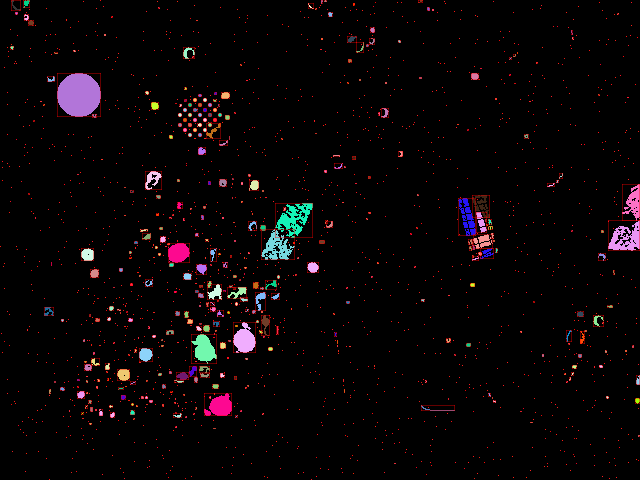
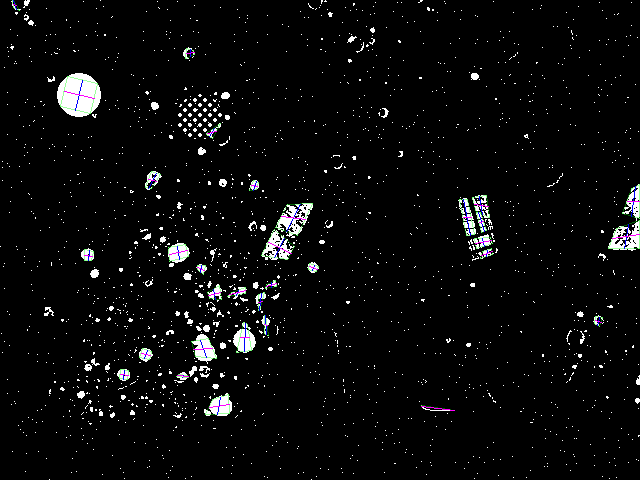
Working on "Area Expansion" method

diff --git a/Scripting/BlobUtil.ts b/Scripting/BlobUtil.ts
@@ -1,14 +1,20 @@
 import { virtexConfig } from "./Config";
-import { inRangeInclusive, max, min, Vector } from "./util/Math";
+import { calcPolygonArea, inRangeInclusive, max, min, Vector } from "./util/Math";
+import { drawPixel } from "./util/OtherUtil";
 
 //Types
 export interface BlobData {
+    /*Note: relative side of pixel
+    ex) top left (0, 0) means pixel #(0, 0) whereas
+        top right (1, 1) means pixel #(1, 0)
+        bottom right (2, 2) means pixel #(1, 1)
+    this makes area calculations easier*/
     boundTopLeft: Vector,
     boundBottomRight: Vector,
-    extremeTopLeft: Vector,
-    extremeTopRight: Vector,
-    extremeBottomLeft: Vector,
-    extremeBottomRight: Vector,
+    quadTopLeft: Vector,
+    quadTopRight: Vector,
+    quadBottomRight: Vector,
+    quadBottomLeft: Vector,
     area: number
 }
 export enum BlobStatus { UNSCANED, VALID, POINTER, GARBAGE };
@@ -32,30 +38,31 @@ export function doesBlobMatchCriteria(blob: BlobData): boolean {
     const boundHeight = blob.boundBottomRight.y - blob.boundTopLeft.y;
 
     //boundWidth / boundHeight = (1/640) to 640
-    //10.6
+    //10.6?
     const aspectRatio = boundWidth / boundHeight;
     const size = boundWidth * boundHeight;
     const fullness = blob.area / size;
-    const slope = 100;//(slopeLeft + slopeRight) / 2.0;
 
-    if (inRangeInclusive(aspectRatio, virtexConfig.blobAspectRatioMin, virtexConfig.blobAspectRatioMax) &&
-    inRangeInclusive(size       , virtexConfig.blobSizeMin       , virtexConfig.blobSizeMax       ) &&
-    inRangeInclusive(fullness   , virtexConfig.blobFullnessMin   , virtexConfig.blobFullnessMax   )) {
-        const slopeRight = (blob.extremeBottomRight.y - blob.extremeTopRight.y) / (blob.extremeBottomRight.x - blob.extremeTopRight.x);
-        const test = Math.atan2(
-            blob.extremeBottomLeft.y - blob.extremeTopLeft.y, 
-            blob.extremeBottomLeft.x - blob.extremeTopLeft.x) * 180 / Math.PI;
-        console.log(test);
-    }
+    const avgDy = ((blob.quadBottomLeft.y + blob.quadBottomRight.y) / 2.0) - ((blob.quadTopLeft.y + blob.quadTopRight.y) / 2.0);
+    const avgDx = ((blob.quadTopLeft.x + blob.quadTopRight.x) / 2.0) - ((blob.quadBottomLeft.x + blob.quadBottomRight.x) / 2.0);
+    const angleRads = Math.atan2(avgDy, avgDx);
+
+    // if (inRangeInclusive(aspectRatio, virtexConfig.blobAspectRatioMin, virtexConfig.blobAspectRatioMax) &&
+    //     inRangeInclusive(size       , virtexConfig.blobSizeMin       , virtexConfig.blobSizeMax       ) &&
+    //     inRangeInclusive(fullness   , virtexConfig.blobFullnessMin   , virtexConfig.blobFullnessMax   ) &&
+    //     inRangeInclusive(angleRads  , virtexConfig.blobAngleRadsMin  , virtexConfig.blobAngleRadsMax  )) {
+    //     console.log({ avgDy, avgDx, angleRads });
+    // }
 
     return inRangeInclusive(aspectRatio, virtexConfig.blobAspectRatioMin, virtexConfig.blobAspectRatioMax) &&
            inRangeInclusive(size       , virtexConfig.blobSizeMin       , virtexConfig.blobSizeMax       ) &&
            inRangeInclusive(fullness   , virtexConfig.blobFullnessMin   , virtexConfig.blobFullnessMax   ) &&
-           inRangeInclusive(slope      , virtexConfig.blobSlopeMin      , virtexConfig.blobSlopeMax      );
+           inRangeInclusive(angleRads  , virtexConfig.blobAngleRadsMin  , virtexConfig.blobAngleRadsMax  );
 }
 
 //Merging Blobs
 export function mergeBlobs(blob1: BlobData, blob2: BlobData): BlobData {
+    const quad = makeBiggestQuad(blob1, blob2);
     return {
         boundTopLeft: {
             x: min(blob1.boundTopLeft.x, blob2.boundTopLeft.x),
@@ -65,15 +72,49 @@ export function mergeBlobs(blob1: BlobData, blob2: BlobData): BlobData {
             x: max(blob1.boundBottomRight.x, blob2.boundBottomRight.x),
             y: max(blob1.boundBottomRight.y, blob2.boundBottomRight.y)
         },
-        extremeTopLeft: mergeExtremeTopLeft(blob1.extremeTopLeft, blob2.extremeTopLeft),
-        extremeTopRight: mergeExtremeTopRight(blob1.extremeTopRight, blob2.extremeTopRight),
-        extremeBottomLeft: mergeExtremeBottomLeft(blob1.extremeBottomLeft, blob2.extremeBottomLeft),
-        extremeBottomRight: mergeExtremeBottomRight(blob1.extremeBottomRight, blob2.extremeBottomRight),
+        // quadTopLeft: quad[0],
+        // quadTopRight: quad[1],
+        // quadBottomRight: quad[2],
+        // quadBottomLeft: quad[3],
+        quadTopLeft: mergeExtremeTopLeft(blob1.quadTopLeft, blob2.quadTopLeft),
+        quadTopRight: mergeExtremeTopRight(blob1.quadTopRight, blob2.quadTopRight),
+        quadBottomRight: mergeExtremeBottomRight(blob1.quadBottomRight, blob2.quadBottomRight),
+        quadBottomLeft: mergeExtremeBottomLeft(blob1.quadBottomLeft, blob2.quadBottomLeft),
         area: blob1.area + blob2.area
     };
 }
+function makeBiggestQuad(blob1: BlobData, blob2: BlobData): Vector[] {
+    const quads: Vector[][] = [
+        [ blob1.quadTopLeft, blob1.quadTopRight, blob1.quadBottomRight, blob1.quadBottomLeft ],
+        [ blob1.quadTopLeft, blob1.quadTopRight, blob1.quadBottomRight, blob2.quadBottomLeft ],
+        [ blob1.quadTopLeft, blob1.quadTopRight, blob2.quadBottomRight, blob1.quadBottomLeft ],
+        [ blob1.quadTopLeft, blob1.quadTopRight, blob2.quadBottomRight, blob2.quadBottomLeft ],
+        [ blob1.quadTopLeft, blob2.quadTopRight, blob1.quadBottomRight, blob1.quadBottomLeft ],
+        [ blob1.quadTopLeft, blob2.quadTopRight, blob1.quadBottomRight, blob2.quadBottomLeft ],
+        [ blob1.quadTopLeft, blob2.quadTopRight, blob2.quadBottomRight, blob1.quadBottomLeft ],
+        [ blob1.quadTopLeft, blob2.quadTopRight, blob2.quadBottomRight, blob2.quadBottomLeft ],
+        [ blob2.quadTopLeft, blob1.quadTopRight, blob1.quadBottomRight, blob1.quadBottomLeft ],
+        [ blob2.quadTopLeft, blob1.quadTopRight, blob1.quadBottomRight, blob2.quadBottomLeft ],
+        [ blob2.quadTopLeft, blob1.quadTopRight, blob2.quadBottomRight, blob1.quadBottomLeft ],
+        [ blob2.quadTopLeft, blob1.quadTopRight, blob2.quadBottomRight, blob2.quadBottomLeft ],
+        [ blob2.quadTopLeft, blob2.quadTopRight, blob1.quadBottomRight, blob1.quadBottomLeft ],
+        [ blob2.quadTopLeft, blob2.quadTopRight, blob1.quadBottomRight, blob2.quadBottomLeft ],
+        [ blob2.quadTopLeft, blob2.quadTopRight, blob2.quadBottomRight, blob1.quadBottomLeft ],
+        [ blob2.quadTopLeft, blob2.quadTopRight, blob2.quadBottomRight, blob2.quadBottomLeft ],
+    ];
+
+    let biggestQuadIndex = 0;
+    for (let i = 1; i < quads.length; i++) {
+        if (calcPolygonArea(quads[i]) > calcPolygonArea(quads[biggestQuadIndex])) {
+            biggestQuadIndex = i;
+        }
+    }
+
+    return quads[biggestQuadIndex];
+}
 //FIXME FIXME FIXME
 export function mergeExtremeTopLeft(a: Vector, b: Vector): Vector {
+    //note: these need to be signed
     return isVectorSmaller({x: a.x, y: a.y}, {x: b.x, y: b.y}) ? a : b;
 }
 export function mergeExtremeTopRight(a: Vector, b: Vector): Vector {
@@ -106,10 +147,10 @@ export function runToBlob(run: Run, start: number, line: number): BlobData {
     return {
         boundTopLeft:     {x:start , y:line  },
         boundBottomRight: {x:stop+1, y:line+1},
-        extremeTopLeft:      {x:start , y:line  },
-        extremeTopRight:     {x:stop  , y:line  },
-        extremeBottomLeft:   {x:start , y:line  },
-        extremeBottomRight:  {x:stop  , y:line  },
+        quadTopLeft:      {x:start , y:line  },
+        quadTopRight:     {x:stop+1, y:line  },
+        quadBottomRight:  {x:stop+1, y:line+1},
+        quadBottomLeft:   {x:start , y:line+1},
         area: run.length
     };
 }

diff --git a/Scripting/BlobProcessor.ts b/Scripting/BlobProcessor.ts
@@ -1,13 +1,13 @@
 //BlobProcessor.ts
 import { IMAGE_WIDTH, IMAGE_HEIGHT } from "./util/Constants";
 import { Fault } from "./util/Fault";
-import { BlobBRAMPort, BLOB_BRAM_PORT_DEFAULT, Kernel, EMPTY_BLOB, KERNEL_MAX_X, drawEllipse, calculateIDX, drawLine } from "./util/OtherUtil";
+import { BlobBRAMPort, BLOB_BRAM_PORT_DEFAULT, Kernel, EMPTY_BLOB, KERNEL_MAX_X, drawEllipse, calculateIDX, drawLine, drawPixel } from "./util/OtherUtil";
 import { MAX_BLOBS, MAX_BLOB_POINTER_DEPTH, MAX_RUNS_PER_LINE, NULL_LINE_NUMBER, NULL_BLOB_ID, NULL_RUN_BUFFER_PARTION, NULL_BLACK_RUN_BLOB_ID } from "./BlobConstants";
 import { BlobData, BlobMetadata, BlobStatus, mergeBlobs, Run, RunBuffer, runsOverlap, runToBlob, doesBlobMatchCriteria } from "./BlobUtil";
-import { IMAGE_INPUT_PATH, DRAW_BLOB_COLOR, DRAW_BOUND, DRAW_POLYGON, IMAGE_OUTPUT_PATH, IMAGES_INPUT_PATH, IMAGES_OUTPUT_PATH, DRAW_ELLIPSE, virtexConfig } from "./Config";
+import { IMAGE_INPUT_PATH, DRAW_BLOB_COLOR, DRAW_BOUND, DRAW_QUAD, IMAGE_OUTPUT_PATH, IMAGES_INPUT_PATH, IMAGES_OUTPUT_PATH, DRAW_ELLIPSE, virtexConfig, DRAW_QUAD_CENTER_LINES, DRAW_QUAD_CORNERS } from "./Config";
 import * as fs from "fs";
 import * as path from "path";
-import { overflow } from "./util/Math";
+import { overflow, Vector } from "./util/Math";
 const drawing = require('pngjs-draw');
 const png = drawing(require('pngjs').PNG);
 
@@ -664,49 +664,78 @@ function runImage(imageInputPath: string, imageOutputPath: string): Promise<void
                         );
                     }
 
-                    if (DRAW_POLYGON) {
+                    if (DRAW_ELLIPSE) {
+                        drawEllipse(
+                            data,
+                            blob.quadTopLeft,
+                            blob.quadTopRight,
+                            blob.quadBottomRight,
+                            blob.quadBottomLeft,
+                            [0, 0, 255, 100]
+                        );
+                    }
+
+                    if (DRAW_QUAD) {
                         // @ts-ignore
                         drawLine(
                             data,
-                            blob.extremeTopLeft,
-                            blob.extremeTopRight,
+                            { x: blob.quadTopLeft.x   , y: blob.quadTopLeft.y },
+                            { x: blob.quadTopRight.x-1, y: blob.quadTopRight.y },
                             [0, 255, 0, 100]
                         );
 
                         //@ts-ignore
                         drawLine(
                             data,
-                            blob.extremeTopRight,
-                            blob.extremeBottomRight,
+                            { x: blob.quadTopRight.x-1   , y: blob.quadTopRight.y     },
+                            { x: blob.quadBottomRight.x-1, y: blob.quadBottomRight.y-1},
                             [0, 255, 0, 100]
                         );
 
                         //@ts-ignore
                         drawLine(
                             data,
-                            blob.extremeBottomRight,
-                            blob.extremeBottomLeft,
+                            { x: blob.quadBottomRight.x-1, y: blob.quadBottomRight.y-1},
+                            { x: blob.quadBottomLeft.x   , y: blob.quadBottomLeft.y-1 },
                             [0, 255, 0, 100]
                         );
 
                         //@ts-ignore
                         drawLine(
                             data,
-                            blob.extremeBottomLeft,
-                            blob.extremeTopLeft,
+                            { x: blob.quadBottomLeft.x, y: blob.quadBottomLeft.y-1},
+                            { x: blob.quadTopLeft.x   , y: blob.quadTopLeft.y   },
                             [0, 255, 0, 100]
                         );
                     }
 
-                    if (DRAW_ELLIPSE) {
-                        drawEllipse(
-                            data,
-                            blob.extremeTopRight,
-                            blob.extremeTopLeft,
-                            blob.extremeBottomRight,
-                            blob.extremeBottomLeft,
-                            [0, 0, 255, 100]
-                        );
+                    if (DRAW_QUAD_CENTER_LINES) {
+                        const midTop: Vector = {
+                            x: ((blob.quadTopLeft.x + blob.quadTopRight.x-1) / 2.0),
+                            y: ((blob.quadTopLeft.y + blob.quadTopRight.y) / 2.0)
+                        };
+                        const midBottom: Vector = {
+                            x: ((blob.quadBottomLeft.x + blob.quadBottomRight.x-1) / 2.0),
+                            y: ((blob.quadBottomLeft.y-1 + blob.quadBottomRight.y-1) / 2.0)
+                        };
+                        const midLeft: Vector = {
+                            x: ((blob.quadTopLeft.x + blob.quadBottomLeft.x) / 2.0),
+                            y: ((blob.quadTopLeft.y + blob.quadBottomLeft.y-1) / 2.0)
+                        };
+                        const midRight: Vector = {
+                            x: ((blob.quadTopRight.x-1 + blob.quadBottomRight.x-1) / 2.0),
+                            y: ((blob.quadTopRight.y + blob.quadBottomRight.y-1) / 2.0)
+                        };
+
+                        drawLine(data, midTop, midBottom, [0, 0, 255, 255]);
+                        drawLine(data, midLeft, midRight, [255, 0, 255, 255]);
+                    }
+
+                    if (DRAW_QUAD_CORNERS) {
+                        drawPixel(data, { x: blob.quadTopLeft.x      , y: blob.quadTopLeft.y       }, [255, 255, 0, 255]); //yellow
+                        drawPixel(data, { x: blob.quadTopRight.x-1   , y: blob.quadTopRight.y      }, [0, 255, 255, 255]); //cyan
+                        drawPixel(data, { x: blob.quadBottomRight.x-1, y: blob.quadBottomRight.y-1 }, [0,   0, 255, 255]); //blue
+                        drawPixel(data, { x: blob.quadBottomLeft.x   , y: blob.quadBottomLeft.y-1  }, [255, 0, 255, 255]); //purple
                     }
                 }
             }

diff --git a/Scripting/Config.ts b/Scripting/Config.ts
@@ -4,11 +4,13 @@ import { VirtexConfig } from './util/VirtexConfig';
 //Config
 export const IMAGES_INPUT_PATH = 'images';
 export const IMAGES_OUTPUT_PATH = 'output';
-export const IMAGE_INPUT_PATH = 'images/2019_Noise2.png';
+export const IMAGE_INPUT_PATH = 'images/Angles.png';
 export const IMAGE_OUTPUT_PATH = 'out.png';
-export const DRAW_BLOB_COLOR = true;
-export const DRAW_BOUND = true;
-export const DRAW_POLYGON = true;
+export const DRAW_BLOB_COLOR = false;
+export const DRAW_BOUND = false;
+export const DRAW_QUAD = true;
+export const DRAW_QUAD_CENTER_LINES = true;
+export const DRAW_QUAD_CORNERS = false;
 export const DRAW_ELLIPSE = false;
 
 export const virtexConfig: VirtexConfig = {
@@ -21,20 +23,20 @@ export const virtexConfig: VirtexConfig = {
     targetBlobGapMax: 0xffff,
     targetBlobAreaDiffMin: 0,
     targetBlobAreaDiffMax: 0xffff,
-    targetBlobSlopeDiffMin: 0,
-    targetBlobSlopeDiffMax: 0xffff,
+    targetBlobAngleRadsDiffMin: 0,
+    targetBlobAngleRadsDiffMax: 0xffff,
     targetAspectRatioMin: 0,
     targetAspectRatioMax: 0xffff,
     targetCenterX: IMAGE_WIDTH / 2,
     targetCenterY: IMAGE_HEIGHT / 2,
 
     //blob params
-    blobAspectRatioMin: 0.25,
-    blobAspectRatioMax: 1,
-    blobSizeMin: 200,
-    blobSizeMax: 0xffff,
-    blobFullnessMin: 0.3,
-    blobFullnessMax: 0.6,
-    blobSlopeMin: 0,
-    blobSlopeMax: 0xffff,
+    blobAspectRatioMin: Number.MIN_SAFE_INTEGER,
+    blobAspectRatioMax: Number.MAX_SAFE_INTEGER,
+    blobSizeMin: 100,
+    blobSizeMax: Number.MAX_SAFE_INTEGER,
+    blobFullnessMin: Number.MIN_SAFE_INTEGER,
+    blobFullnessMax: Number.MAX_SAFE_INTEGER,
+    blobAngleRadsMin: Number.MIN_SAFE_INTEGER,
+    blobAngleRadsMax: Number.MAX_SAFE_INTEGER
 };

diff --git a/Scripting/util/VirtexConfig.ts b/Scripting/util/VirtexConfig.ts
@@ -15,8 +15,8 @@ export interface VirtexConfig { //32 x 16
     targetBlobGapMax: number;
     targetBlobAreaDiffMin: number; //difference between areas of blobs in target
     targetBlobAreaDiffMax: number;
-    targetBlobSlopeDiffMin: number; //difference in slope between each blob next to eachother
-    targetBlobSlopeDiffMax: number; //TODO how does the work if blobs are not in a clear line?
+    targetBlobAngleRadsDiffMin: number; //difference in slope between each blob next to eachother
+    targetBlobAngleRadsDiffMax: number; //TODO how does the work if blobs are not in a clear line?
     targetAspectRatioMin: number;
     targetAspectRatioMax: number;
     targetCenterX: number; //final target selection parameter
@@ -29,8 +29,8 @@ export interface VirtexConfig { //32 x 16
     blobSizeMax: number;
     blobFullnessMin: number; //fullness = blob.area (true area) / size
     blobFullnessMax: number;
-    blobSlopeMin: number; //slope = avg slope between left and right sides
-    blobSlopeMax: number;
+    blobAngleRadsMin: number; //angle of polygon (-PI to PI)
+    blobAngleRadsMax: number; //avg line between two longest sides of quad
     
     //reserved for future use
     // /*27*/reserved27;

diff --git a/Scripting/util/Math.ts b/Scripting/util/Math.ts
@@ -26,3 +26,16 @@ export function inRangeInclusive(num: number, min: number, max: number): boolean
     //if number is in range (inclusive / [])
     return num >= min && num <= max;
 }
+
+//Polygon
+export function calcPolygonArea(points: Vector[]): number {
+    let total = 0;
+    for (let i = 0; i < points.length; i++) {
+        const addX = points[i].x;
+        const addY = points[i === points.length - 1 ? 0 : i + 1].y;
+        const subX = points[i === points.length - 1 ? 0 : i + 1].x;
+        const subY = points[i].y;
+        total += (addX * addY * 0.5) - (subX * subY * 0.5);
+    }
+    return Math.abs(total);
+}

diff --git a/Scripting/util/OtherUtil.ts b/Scripting/util/OtherUtil.ts
@@ -14,10 +14,10 @@ export const KERNEL_MAX_X = IMAGE_WIDTH / 8 - 1;
 export const EMPTY_BLOB: BlobData = {
     boundTopLeft: {x:0, y:0},
     boundBottomRight: {x:0, y:0},
-    extremeTopLeft: {x:0, y:0},
-    extremeTopRight: {x:0, y:0},
-    extremeBottomLeft: {x:0, y:0},
-    extremeBottomRight: {x:0, y:0},
+    quadTopLeft: {x:0, y:0},
+    quadTopRight: {x:0, y:0},
+    quadBottomRight: {x:0, y:0},
+    quadBottomLeft: {x:0, y:0},
     area: 0
 };
 
